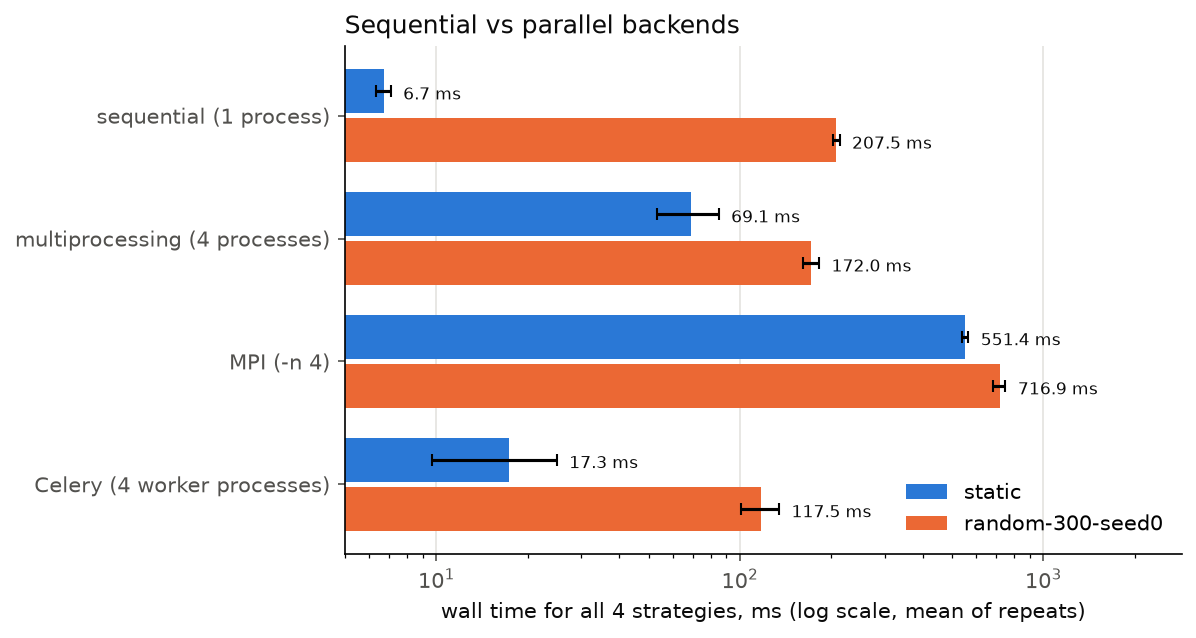
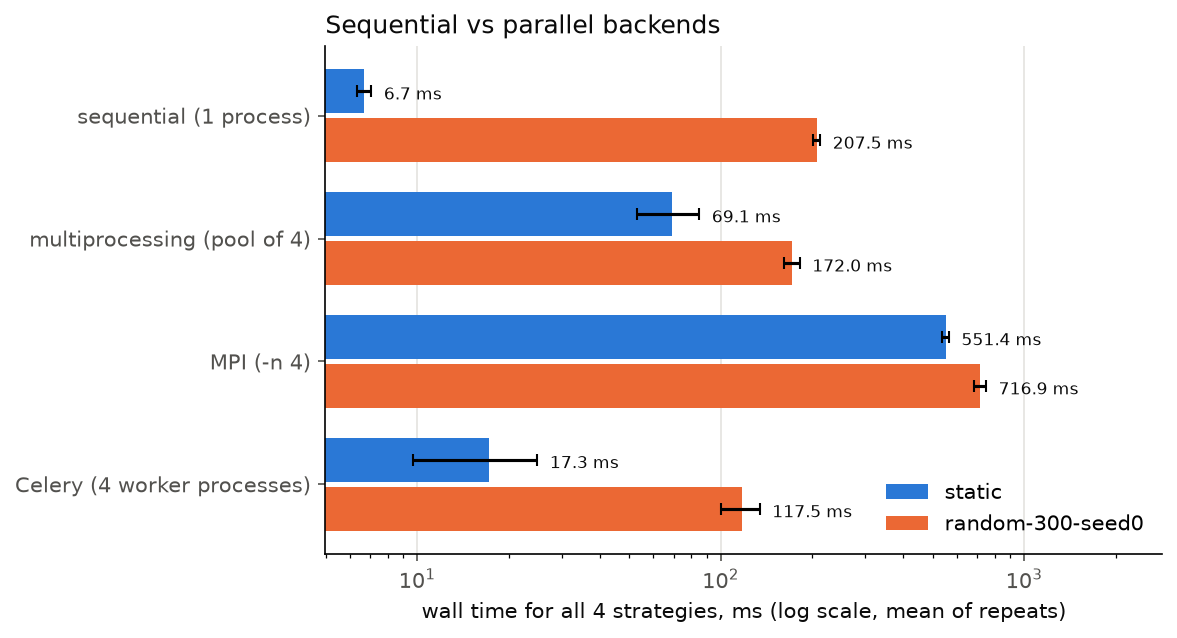
Label the multiprocessing backend as a pool of 4, not 4 processes (text only, numbers unchanged)

diff --git a/scripts/run_benchmarks.py b/scripts/run_benchmarks.py
@@ -122,7 +122,7 @@ def backend_label(name: str, run: dict, mpi_np: int) -> str:
     if name == "sequential":
         return "sequential (1 process)"
     if name == "multiprocessing":
-        return f"multiprocessing ({run['workers']} processes)"
+        return f"multiprocessing (pool of {run['workers']})"
     if name == "mpi":
         return f"MPI (-n {mpi_np})"
     return f"Celery ({(run['workers'] or {}).get('processes', '?')} worker processes)"

diff --git a/README.md b/README.md
@@ -124,11 +124,11 @@ A* expands fewer cells than BFS on every size, but only by about 8 to 18% on ave
 | Maze | Backend | Total wall ms (mean ± sd) | Work phase only ms | Repeats |
 |---|---|---|---|---|
 | static | sequential (1 process) | 6.70 ± 0.37 | - | 5 |
-| static | multiprocessing (4 processes) | 69.11 ± 15.95 | 47.27 ± 4.93 | 5 |
+| static | multiprocessing (pool of 4) | 69.11 ± 15.95 | 47.27 ± 4.93 | 5 |
 | static | MPI (-n 4) | 551.36 ± 13.98 | 3.66 ± 1.79 | 5 |
 | static | Celery (4 worker processes) | 17.28 ± 7.62 | - | 5 |
 | random-300-seed0 | sequential (1 process) | 207.47 ± 5.41 | - | 5 |
-| random-300-seed0 | multiprocessing (4 processes) | 171.98 ± 10.22 | 154.83 ± 9.07 | 5 |
+| random-300-seed0 | multiprocessing (pool of 4) | 171.98 ± 10.22 | 154.83 ± 9.07 | 5 |
 | random-300-seed0 | MPI (-n 4) | 716.94 ± 32.44 | 101.51 ± 17.66 | 5 |
 | random-300-seed0 | Celery (4 worker processes) | 117.47 ± 17.04 | - | 5 |
 <!-- /claims -->
